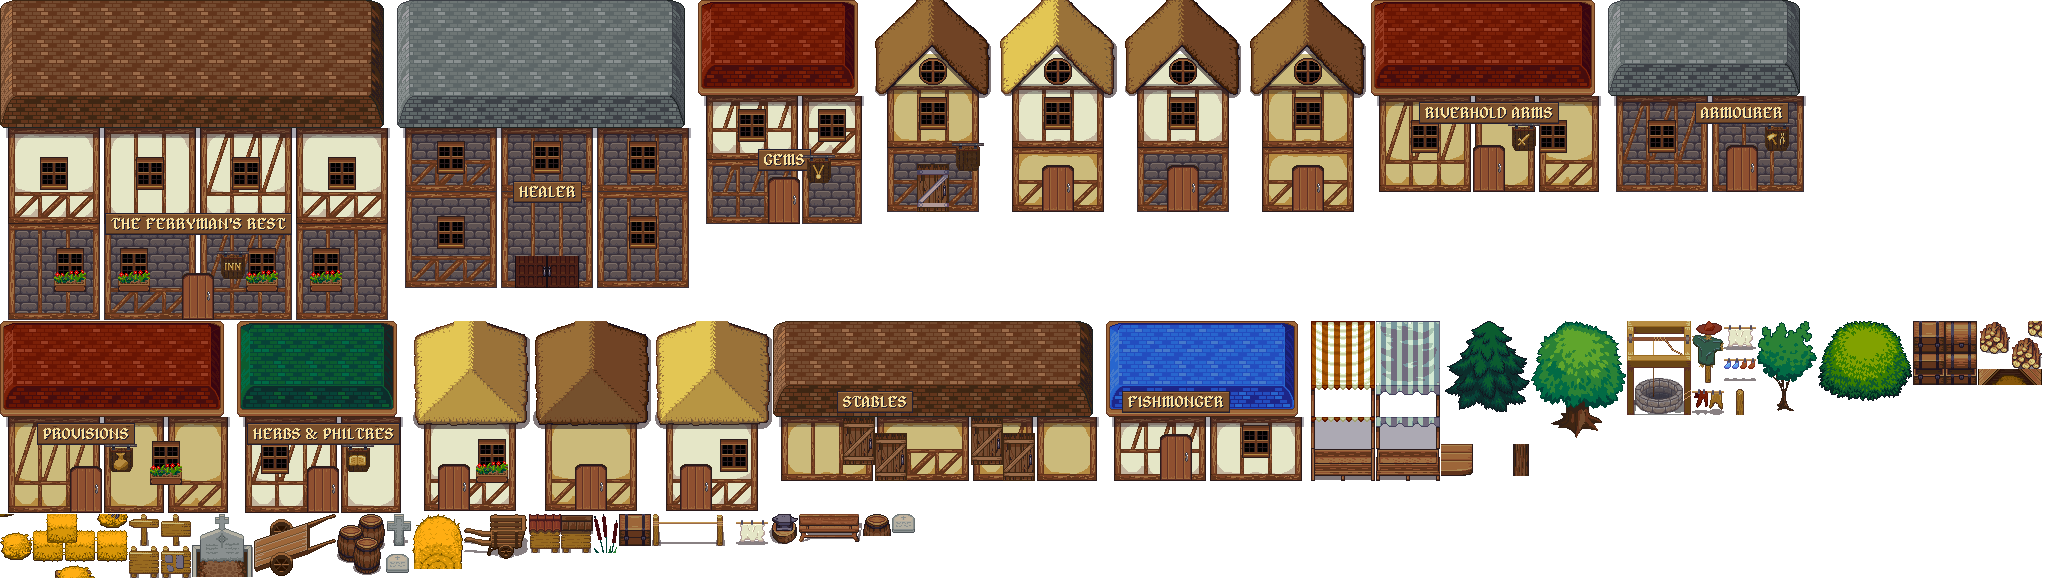
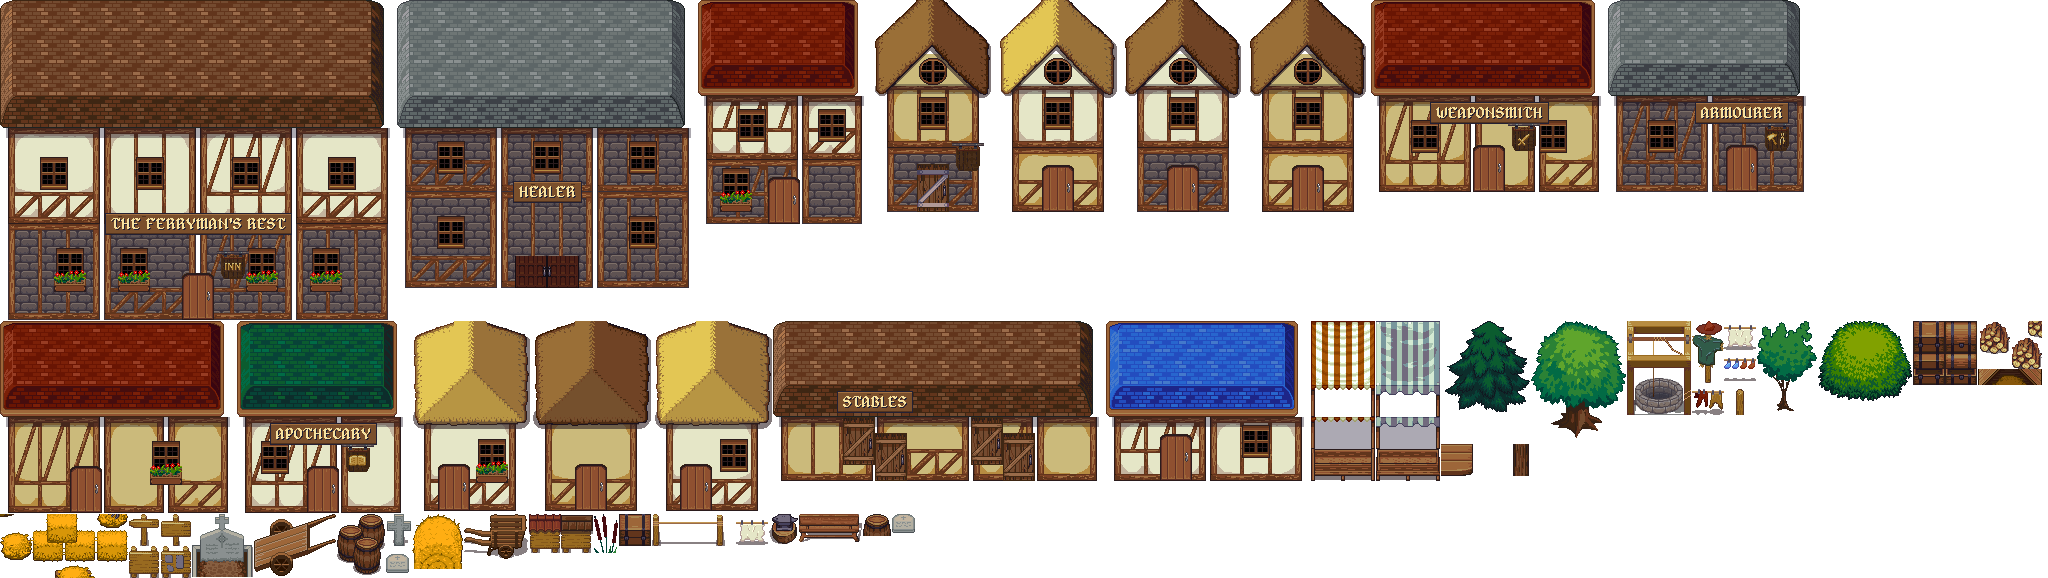
Sync from private repo

diff --git a/client/tests/e2e/town.spec.js b/client/tests/e2e/town.spec.js
@@ -47,7 +47,7 @@ test.describe('Riverhold', () => {
 
         // The townsfolk arrive from the character generator: posted ones and wanderers
         await expect.poll(() => page.evaluate(() => window.__PHASER_GAME.scene.getScene('GameScene').town.folk.length),
-            { timeout: 120000, intervals: [1000] }).toBeGreaterThan(15);
+            { timeout: 120000, intervals: [1000] }).toBeGreaterThan(10);
         // The gate warden stands just inside and speaks when you come near
         const warden = await page.evaluate(() => {
             const gs = window.__PHASER_GAME.scene.getScene('GameScene');
@@ -107,7 +107,7 @@ test.describe('Riverhold', () => {
         test.setTimeout(150000);
         await enterWorld(page);
         await page.evaluate(() => window.__PHASER_GAME.scene.getScene('GameScene').enterPlace({ name: 'Riverhold', x: 6320, y: 11116 }));
-        await page.waitForFunction(() => window.__PHASER_GAME.scene.getScene('GameScene').town?.folk.length > 15, null, { timeout: 120000 });
+        await page.waitForFunction(() => window.__PHASER_GAME.scene.getScene('GameScene').town?.folk.length > 10, null, { timeout: 120000 });
         // Watch every wanderer's animation for ten seconds: a switch straight back (left, up, left...) is a flicker
         const flips = await page.evaluate(() => new Promise(resolve => {
             const gs = window.__PHASER_GAME.scene.getScene('GameScene');
@@ -145,5 +145,45 @@ test.describe('Riverhold', () => {
         });
         await hold(page, 'right', 2600);
         expect((await where(page)).x).toBeGreaterThan(51 * 32);   // over on the far bank
+    });
+
+    test("walk up into the weaponsmith's door and you are inside, with the smith; walk down out of it and you are back in the street", async ({ page }) => {
+        test.setTimeout(150000);
+        await enterWorld(page);
+        await page.evaluate(() => window.__PHASER_GAME.scene.getScene('GameScene').enterPlace({ name: 'Riverhold', x: 6320, y: 11116 }));
+        await expect.poll(() => where(page).then(w => w.town), { timeout: 15000 }).toBe('riverhold');
+        // In front of the smithy's door, then walk up into it
+        const door = await page.evaluate(() => {
+            const gs = window.__PHASER_GAME.scene.getScene('GameScene');
+            const exit = gs.town.data.exits.find(e => e.to === 'riverhold-weapons');
+            const me = gs.localPlayer.sprite;
+            me.setPosition(exit.rect[0] + exit.rect[2] / 2, exit.rect[1] + 40 - 23);
+            me.body.reset(me.x, me.y);
+            return exit.rect;
+        });
+        await page.evaluate(async () => {
+            const gs = window.__PHASER_GAME.scene.getScene('GameScene');
+            const keys = gs.scene.get('UIScene').bottomControls.movementKeys;
+            keys.up = true;
+            for (let i = 0; i < 60 && gs.town?.key === 'riverhold'; i++) await new Promise(r => setTimeout(r, 50));
+            keys.up = false;
+        });
+        await expect.poll(() => where(page).then(w => w.town), { timeout: 15000 }).toBe('riverhold-weapons');
+        await expect.poll(() => page.evaluate(() => window.__PHASER_GAME.scene.getScene('GameScene').town.folk.map(f => f.plan.role)),
+            { timeout: 120000, intervals: [1000] }).toEqual(['Weaponsmith']);
+        expect(await page.evaluate(() => window.__PHASER_GAME.scene.getScene('GameScene').town.indoors)).toBe(true);
+
+        // Straight back down and out of the door
+        await page.evaluate(async () => {
+            const gs = window.__PHASER_GAME.scene.getScene('GameScene');
+            const keys = gs.scene.get('UIScene').bottomControls.movementKeys;
+            keys.down = true;
+            for (let i = 0; i < 60 && gs.town?.key !== 'riverhold'; i++) await new Promise(r => setTimeout(r, 50));
+            keys.down = false;
+        });
+        await expect.poll(() => where(page).then(w => w.town), { timeout: 15000 }).toBe('riverhold');
+        const back = await where(page);
+        expect(Math.abs(back.x - (door[0] + door[2] / 2))).toBeLessThan(20);
+        expect(back.y + 23).toBeGreaterThan(door[1]);          // outside, below the door
     });
 });

diff --git a/client/src/world/Town.js b/client/src/world/Town.js
@@ -1,8 +1,9 @@
-// A town you've walked into from the overworld (built by tools/towngen.py into
-// /towns/): the ground, the buildings and everything else that stands up, which
-// sort with the heroes by where they meet the ground, walking collision, and
-// the townsfolk. The river shows the overworld's animated water through the
-// ground's transparent parts. Walk out through the gate to leave.
+// A town you've walked into from the overworld, or a room inside one of its
+// buildings (built by tools/towngen.py into /towns/): the ground, everything
+// that stands up (buildings, furniture...), which sorts with the heroes by
+// where it meets the ground, walking collision, and the people there. A
+// town's river shows the overworld's animated water through the ground's
+// transparent parts. Exits (the town gate, every door) lead to other maps.
 
 import { sortDepth } from './Forest.js';
 import { DEPTH } from './Overworld.js';
@@ -10,6 +11,7 @@ import { CompositeCharacter } from '../sprites/CompositeCharacter.js';
 
 const FEET = 23;               // from a character's centre down to their feet (Ship.BELOW_HERO)
 const TALK_REACH = 64;         // stand this close to someone and they speak
+const COUNTER_REACH = 104;     // ...indoors, across a shop counter
 const WANDER_SPEED = 46;
 const WATER_FRAME_MS = 260;
 
@@ -41,7 +43,8 @@ export class Town {
         this.blocked = new Uint8Array(this.cols * (data.height / data.cell));
         for (let i = 0; i < this.blocked.length; i++) this.blocked[i] = (bytes[i >> 3] >> (7 - (i & 7))) & 1;
 
-        this.water = scene.add.tileSprite(0, 0, scene.scale.width, scene.scale.height, 'world-water', 0)
+        this.indoors = !!data.indoors;
+        this.water = this.indoors ? null : scene.add.tileSprite(0, 0, scene.scale.width, scene.scale.height, 'world-water', 0)
             .setOrigin(0, 0).setScrollFactor(0).setDepth(DEPTH.water);
         this.ground = scene.add.image(0, 0, `town-${key}`).setOrigin(0, 0).setDepth(DEPTH.ground);
 
@@ -103,10 +106,15 @@ export class Town {
         return false;
     }
 
-    /** Is the point (a hero's feet) in the gate, where the town lets out? */
-    atGate(x, y) {
-        const [x0, y0, x1, y1] = this.data.gate;
-        return x < x0 + 24 && y >= y0 && y <= y1;
+    /**
+     * The exit a hero's feet at (x, y) are walking out through, if any: into
+     * its box, heading its way (out of the gate, up into a door, down out of a room).
+     * @returns {{to: string|null, at?: number[], dir: string}|null}
+     */
+    exitAt(x, y, intent) {
+        const going = { left: intent.dx < 0, right: intent.dx > 0, up: intent.dy < 0, down: intent.dy > 0 };
+        return this.data.exits.find(({ rect: [ex, ey, ew, eh], dir }) => going[dir]
+            && x >= ex && x <= ex + ew && y >= ey - 6 && y <= ey + eh + 6) || null;
     }
 
     get arrival() {
@@ -147,7 +155,7 @@ export class Town {
             if (f.plan.wander) this._wander(f, delta);
             const s = f.sprite;
             s.setDepth(sortDepth(this.scene, s.y + FEET));
-            const near = feet && Math.hypot(feet.x - s.x, feet.y - (s.y + FEET)) < TALK_REACH;
+            const near = feet && Math.hypot(feet.x - s.x, feet.y - (s.y + FEET)) < (this.indoors ? COUNTER_REACH : TALK_REACH);
             f.label.setVisible(!!near);
             if (f.bubble) {
                 f.bubble.setVisible(!!near).setPosition(s.x, s.y - 52);
@@ -163,6 +171,7 @@ export class Town {
             }
             f.talking = !!near;
         }
+        if (!this.water) return;
         this._waterTime += delta;
         if (this._waterTime >= WATER_FRAME_MS) {
             this._waterTime -= WATER_FRAME_MS;
@@ -221,7 +230,7 @@ export class Town {
     }
 
     destroy() {
-        this.water.destroy();
+        this.water?.destroy();
         this.ground.destroy();
         this.things.forEach(t => t.destroy());
         this.folk.forEach(f => { f.sprite.destroy(); f.bubble?.destroy(); });

diff --git a/client/src/scenes/GameScene.js b/client/src/scenes/GameScene.js
@@ -209,38 +209,50 @@ export class GameScene extends Scene {
     }
 
     /** Answer "Enter Riverhold?" with yes. Places without a map of their own yet stay closed. */
-    enterPlace(place) {
+    async enterPlace(place) {
         const key = TOWNS[place?.name];
-        if (key && !this.town && !this._changingRoom) this.enterTown(place, key);
+        if (!key || this.town || this._changingRoom) return;
+        await this._loadTown(key).catch(() => null);
+        const arrive = this.cache.json.get(`town-${key}`)?.arrive;
+        if (!arrive) return;
+        this._townPlace = place;
+        await this.changeMap(key, arrive, 'right');
     }
 
-    /** Walk out through a town's gate and you're back on the overworld, outside it. */
+    /** Walk out through an exit (a town's gate, any door) and you're in the map it leads to. */
     updateGate() {
         const me = this.localPlayer?.sprite;
         if (!this.town || !me || this._changingRoom) return;
-        if ((this._intent?.dx ?? 0) < 0 && this.town.atGate(me.x, me.y + FEET)) this.leaveTown();
+        const exit = this.town.exitAt(me.x, me.y + FEET, this._intent || { dx: 0, dy: 0 });
+        if (!exit) return;
+        if (exit.to === null) this.leaveTown();
+        else this.changeMap(exit.to, exit.at, exit.dir === 'up' ? 'up' : 'down');
     }
 
-    async enterTown(place, key) {
+    /**
+     * Go to a town map or a room (`key`), feet at `feet` [x, y]: a room of its own
+     * on the server, so you see only who's there with you.
+     */
+    async changeMap(key, feet, facing) {
         this._changingRoom = true;
         try {
             await this._loadTown(key);
-            const town = this.cache.json.get(`town-${key}`);
-            const at = { x: town.arrive[0], y: town.arrive[1] - FEET };
+            const at = { x: feet[0], y: feet[1] - FEET };
             const res = await this.networkManager.request('change-room', { town: key, ...at });
             if (!res?.ok) return;
             await this._fadeOut();
+            this.town?.destroy();
             this.overworld.setVisible(false);
             this.mooredShip.setVisible(false);
             this.town = this.world = new Town(this, key);
-            this._townPlace = place;
-            this._arriveAt(at, 'right', res.players);
+            this.cameras.main.setBackgroundColor(this.town.indoors ? '#0c080e' : '#1d5d8c');
+            this._arriveAt(at, facing, res.players);
             this.cameras.main.setBounds(0, 0, this.town.width, this.town.height);
             this.cameras.main.centerOn(at.x, at.y);
             this.cameras.main.fadeIn(FADE_MS);
             this._loadFolk(this.town);
         } catch (err) {
-            console.warn('Could not go into', place?.name, err);
+            console.warn('Could not go to', key, err);
         } finally {
             this._changingRoom = false;
         }
@@ -259,6 +271,7 @@ export class GameScene extends Scene {
             this.world = this.overworld;
             this.overworld.setVisible(true);
             this.mooredShip.setVisible(true);
+            this.cameras.main.setBackgroundColor('#1d5d8c');
             this.cameras.main.removeBounds();
             this._arriveAt(at, 'down', res.players);
             this.cameras.main.centerOn(at.x, at.y);

diff --git a/README.md b/README.md
@@ -110,11 +110,12 @@ Real-time multiplayer via Socket.io. Players share one overworld, built from LPC
 - Deep in a forest the light fails: the further in you go, the closer the dark comes, until you can see only a few steps around you
 - One village lies hidden in a clearing at the heart of the great wood; it isn't on the minimap and its name appears only once you find it
 - Walk up to a place and you're asked whether to enter it. Riverhold, where new heroes start, can be entered (the other places can't yet): a market town in the manner of Ultima III where the two rivers meet
-  - A cobbled square with a well and market stalls, ringed by shops of every size, each with its name painted over the door and a hanging sign: The Ferryman's Rest (inn), Riverhold Arms, the Armourer, Provisions, Herbs & Philtres, a jeweller, the Fishmonger, the Healer's stone hall and the stables, plus thatched cottages
+  - A cobbled square with a well and market stalls, ringed by buildings of every size: the Weaponsmith, the Armourer, the Healer's stone hall and the Apothecary (each with its name painted over the door and a hanging sign), The Ferryman's Rest inn, the stables, townhouses and thatched cottages
   - Built from LPC timber-framed walls, thatched and tiled roofs, doors, windows and town props, put together at whatever size each building needs
-  - Places off the main street to find: a back alley behind the smithy where a hooded stranger lurks, a graveyard behind the healer's hall, a riverside walk behind the shops, a pier out into the river, and a footbridge over the creek to a hermit's hut and a fisherwoman's shack on the outskirts
-  - Townsfolk made by the character generator (merchants, guards, nobles, peasants, a cleric, a pirate ferryman...): some keep their posts and greet you when you walk up, turning to face you; others wander the square and the streets
-  - Inside a town you see only the players who are in it with you; walk out through the gate and you're back on the overworld
+  - Walk up into a door and you're inside: 13 of the buildings have rooms furnished from the LPC house interior set, by what they are for: swords and spear racks behind the weaponsmith's counter, helmets and breastplates at the armourer's, beds in the healer's hall, a still and shelves of books and bottles at the apothecary, a bar and a fireplace at the inn, and beds, hearths, clocks and cupboards in the homes. Walk down out of the door to go back into the street
+  - Places off the main street to find: a back alley behind the smithy where a hooded stranger lurks (and a fence's den behind a barred door), a graveyard behind the healer's hall, a riverside walk, a pier out into the river, and a footbridge over the creek to a hermit's hut and a fisherwoman's shack on the outskirts
+  - Townsfolk made by the character generator: the shopkeepers behind their counters, drinkers at the inn, a patient at the healer's, people at home in their houses, a gate warden, a ferryman, a gravedigger and more keep their places and greet you when you walk up, turning to face you; others wander the square and the streets
+  - In a town or a room you see only the players who are there with you; walk out through the gate and you're back on the overworld
 - A galleon waits at anchor off the port: walk into it to board and it sails like a ship, turning toward where you steer, gathering speed slowly, coasting, riding the swell (it yaws, surges and pitches, so it never runs ruler-straight), with a V of foam behind it. Sail the sea to reach the islands and steer into land to step ashore; the ship waits where you leave it. Other players see your ship
 - Mountains, place icons and water block your way on foot; you can walk through the trees
 - The world wraps around: walk off the east edge and you arrive at the west, and north joins south
@@ -169,7 +170,7 @@ A REST API powers all character generation. Full interactive docs at `/docs` (Sw
 
 ## Credits
 
-Built on assets from the [Liberated Pixel Cup](https://lpc.opengameart.org) and the [Universal LPC Spritesheet Character Generator](https://github.com/sanderfrenken/Universal-LPC-Spritesheet-Character-Generator). See [CREDITS.txt](CREDITS.txt) for the full list of 71 contributing artists and their licenses. Riverhold's buildings are bluecarrot16's LPC thatched-roof cottage, roofs, windows and doors, with LPC terrains, bricks and medieval decorations by many hands. The world map's mountains and forests are the painted terrain of [The Battle for Wesnoth](https://www.wesnoth.org) (GPL v2+), by its terrain artists, chiefly Hogne Håskjold, with desert mountains by doofus-01, recoloured to the game's palette. Music by Matthew Pablo, cynicmusic and RandomMind; sound effects by Kenney, artisticdude, rubberduck, Ogrebane and Vehicle (see CREDITS.txt).
+Built on assets from the [Liberated Pixel Cup](https://lpc.opengameart.org) and the [Universal LPC Spritesheet Character Generator](https://github.com/sanderfrenken/Universal-LPC-Spritesheet-Character-Generator). See [CREDITS.txt](CREDITS.txt) for the full list of 71 contributing artists and their licenses. Riverhold's buildings are bluecarrot16's LPC thatched-roof cottage, roofs, windows and doors, with LPC terrains, bricks and medieval decorations by many hands; its rooms are furnished from Reemax's (Tuomo Untinen) LPC house interior set, after Sharm's LPC base tiles. The world map's mountains and forests are the painted terrain of [The Battle for Wesnoth](https://www.wesnoth.org) (GPL v2+), by its terrain artists, chiefly Hogne Håskjold, with desert mountains by doofus-01, recoloured to the game's palette. Music by Matthew Pablo, cynicmusic and RandomMind; sound effects by Kenney, artisticdude, rubberduck, Ogrebane and Vehicle (see CREDITS.txt).
 
 ## License
 
